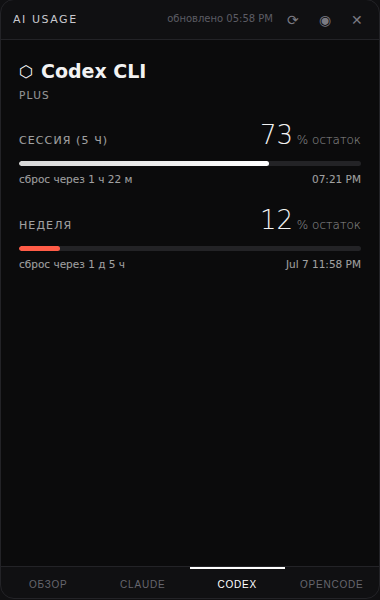
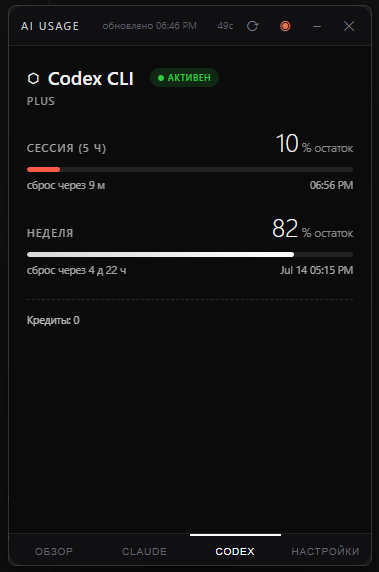
Update screenshots and README with all features

diff --git a/README.md b/README.md
@@ -1,50 +1,72 @@
 # AI Usage Widget — виджет лимитов для Windows 11
 
 Небольшое всегда-поверх-окон окошко, которое показывает **остатки лимитов** для
-Claude Code и Codex CLI.
+Claude Code и Codex CLI в реальном времени.
 
 ![Обзор](preview/shot_overview.png)
 
-**Экраны:**
-1. **Обзор** — остаток текущей 5-часовой сессии по обоим сервисам.
-2. **Claude** — сессия + неделя (и Opus-неделя, если есть) со временем сброса.
-3. **Codex** — сессия + неделя со временем сброса, план, доп. лимиты моделей.
+## Возможности
 
-Каждая карточка оформлена в стиле своего продукта: Claude — кремовый фон, засечки
-и коралловый акцент; Codex — минималистичный чёрно-белый OpenAI-стиль.
+### Основные экраны
+1. **Обзор** — остаток текущей 5-часовой сессии по обоим сервисам с таймером сброса
+2. **Claude** — сессия + неделя (и Opus-неделя, если есть) со временем сброса
+3. **Codex** — сессия + неделя со временем сброса, план, доп. лимиты моделей
+4. **Настройки** — интервал обновления, размер окна, режим "поверх всех окон"
+
+### Индикаторы статуса
+- **Статус токена** — цветной бейдж рядом с названием сервиса:
+  -  Активен — токен валиден
+  -  Истекает — осталось меньше часа
+  -  Истёк — нужно залогиниться
+- **Таймер обратного отсчёта** — показывает секунды до следующего обновления
+- **Красная полоска** — остаток ≤ 15%
+
+### Системный трей
+При сворачивании в трей виджет продолжает работать в фоне. В трее появляются две иконки с процентами:
+- **Оранжевые цифры** — Claude Code
+- **Зелёные цифры** — Codex CLI
+
+Наведи на иконку — увидишь тултип с подробной информацией. Правый клик:
+- **Показать** — вернуть окно
+- **Обновить** — запросить свежие данные
+- **Выход** — полностью закрыть виджет
+
+### Быстрая авторизация
+При истёкшем токене появляется кнопка **"Войти через CLI"** — запускает `claude login` или `codex login` в отдельном окне.
 
 ---
 
 ## Установка
 
-1. Нужен **Python 3.10+**: https://python.org (при установке отметь *Add to PATH*).
+1. Нужен **Python 3.10+**: https://python.org (при установке отметь *Add to PATH*)
 2. В папке виджета:
-   ```
+   ```bash
    pip install pywebview pystray Pillow
    ```
 3. Запуск:
-   ```
+   ```bash
    python widget.py
    ```
-   или двойной клик по **start_widget.vbs** — запустит без чёрного окна консоли.
-
-Окно можно таскать за верхнюю панель. Кнопки:  обновить, ◉ поверх окон вкл/выкл, ⎯ свернуть в трей, ✕ закрыть.
-Позиция окна запоминается в `config.json`.
-
-### Системный трей
-
-При сворачивании в трей виджет продолжает работать в фоне. В трее появляются две иконки с процентами остатка сессий:
-- **Оранжевая** — Claude Code
-- **Зелёная** — Codex CLI
-
-Наведи на иконку — увидишь тултип с подробной информацией. Правый клик по иконке:
-- **Показать** — вернуть окно
-- **Обновить** — запросить свежие данные
-- **Выход** — полностью закрыть виджет
+   или двойной клик по **start_widget.vbs** — запустит без чёрного окна консоли
 
 ### Автозапуск при старте Windows
 
-Нажми `Win+R` → `shell:startup` → скопируй туда **ярлык** на `start_widget.vbs`.
+Нажми `Win+R` → `shell:startup` → скопируй туда **ярлык** на `start_widget.vbs`
+
+---
+
+## Интерфейс
+
+![Claude](preview/shot_claude.png)
+![Codex](preview/shot_codex.png)
+![Настройки](preview/shot_settings.png)
+
+### Управление окном
+- **Перетаскивание** — за верхнюю панель
+- **⟳** — обновить данные вручную
+- **◉** — переключить режим "поверх всех окон"
+- **⎯** — свернуть в трей
+- **✕** — закрыть виджет
 
 ---
 
@@ -60,7 +82,7 @@ Claude Code и Codex CLI.
 
 Требование: быть залогиненным в каждом CLI (`/login` в Claude Code, `codex login`).
 
-### Про эндпоинты Claude и Codex
+### Про эндпоинты
 
 Оба эндпоинта — те же, что используют сами CLI и утилиты вроде CodexBar, но они
 недокументированные и могут поменяться. Если карточка вдруг перестала обновляться
@@ -69,19 +91,60 @@ Claude Code и Codex CLI.
 
 ---
 
-## Настройки (`config.json`)
+## Настройки
 
+### Через интерфейс
+Вкладка **Настройки** позволяет изменить:
+- **Интервал обновления** — как часто опрашивать API (15-600 секунд)
+- **Ширина окна** — 200-800 px
+- **Высота окна** — 300-1200 px
+- **Поверх всех окон** — вкл/выкл
+
+### Через config.json
 ```json
 {
-  "refresh_interval_sec": 60,        // как часто опрашивать API
-  "window": { "width": 380, "height": 600, "on_top": true }
+  "refresh_interval_sec": 60,
+  "window": {
+    "width": 380,
+    "height": 600,
+    "on_top": true,
+    "x": null,
+    "y": null
+  }
 }
 ```
 
+---
+
 ## Возможные проблемы
 
-* **HTTP 401/403** — токен истёк. Открой соответствующий CLI (он сам обновит
-  токен) или залогинься заново.
-* **Пустое окно** — не установлен WebView2 Runtime (на Windows 11 он есть по
-  умолчанию; если нет — https://developer.microsoft.com/microsoft-edge/webview2/).
-* Красный цвет полоски = остаток ≤ 15 %.
+* **HTTP 401/403** — токен истёк. Нажми "Войти через CLI" или залогинься вручную
+* **Пустое окно** — не установлен WebView2 Runtime (на Windows 11 он есть по умолчанию; если нет — https://developer.microsoft.com/microsoft-edge/webview2/)
+* **Красная полоска** — остаток ≤ 15%, пора готовиться к сбросу лимитов
+* **Иконка Python вместо виджета** — перезапусти приложение, иконка применится после создания окна
+
+---
+
+## Разработка
+
+### Зависимости
+- **pywebview** — окно на базе WebView2
+- **pystray** — иконки в системном трее
+- **Pillow** — генерация иконок для трея
+
+### Структура
+```
+usage-widget/
+├── widget.py          # Бэкенд: API, парсинг, треи
+├── ui.html            # Фронтенд: интерфейс на HTML/CSS/JS
+├── config.json        # Настройки (создаётся автоматически)
+├── icon/
+│   ├── 512.png        # Исходная иконка приложения
+│   └── app.ico        # Windows-иконка (генерируется автоматически)
+├── preview/           # Скриншоты для README
+├── install.bat        # Установка зависимостей
+└── start_widget.vbs   # Запуск без консоли
+```
+
+### Лицензия
+MIT